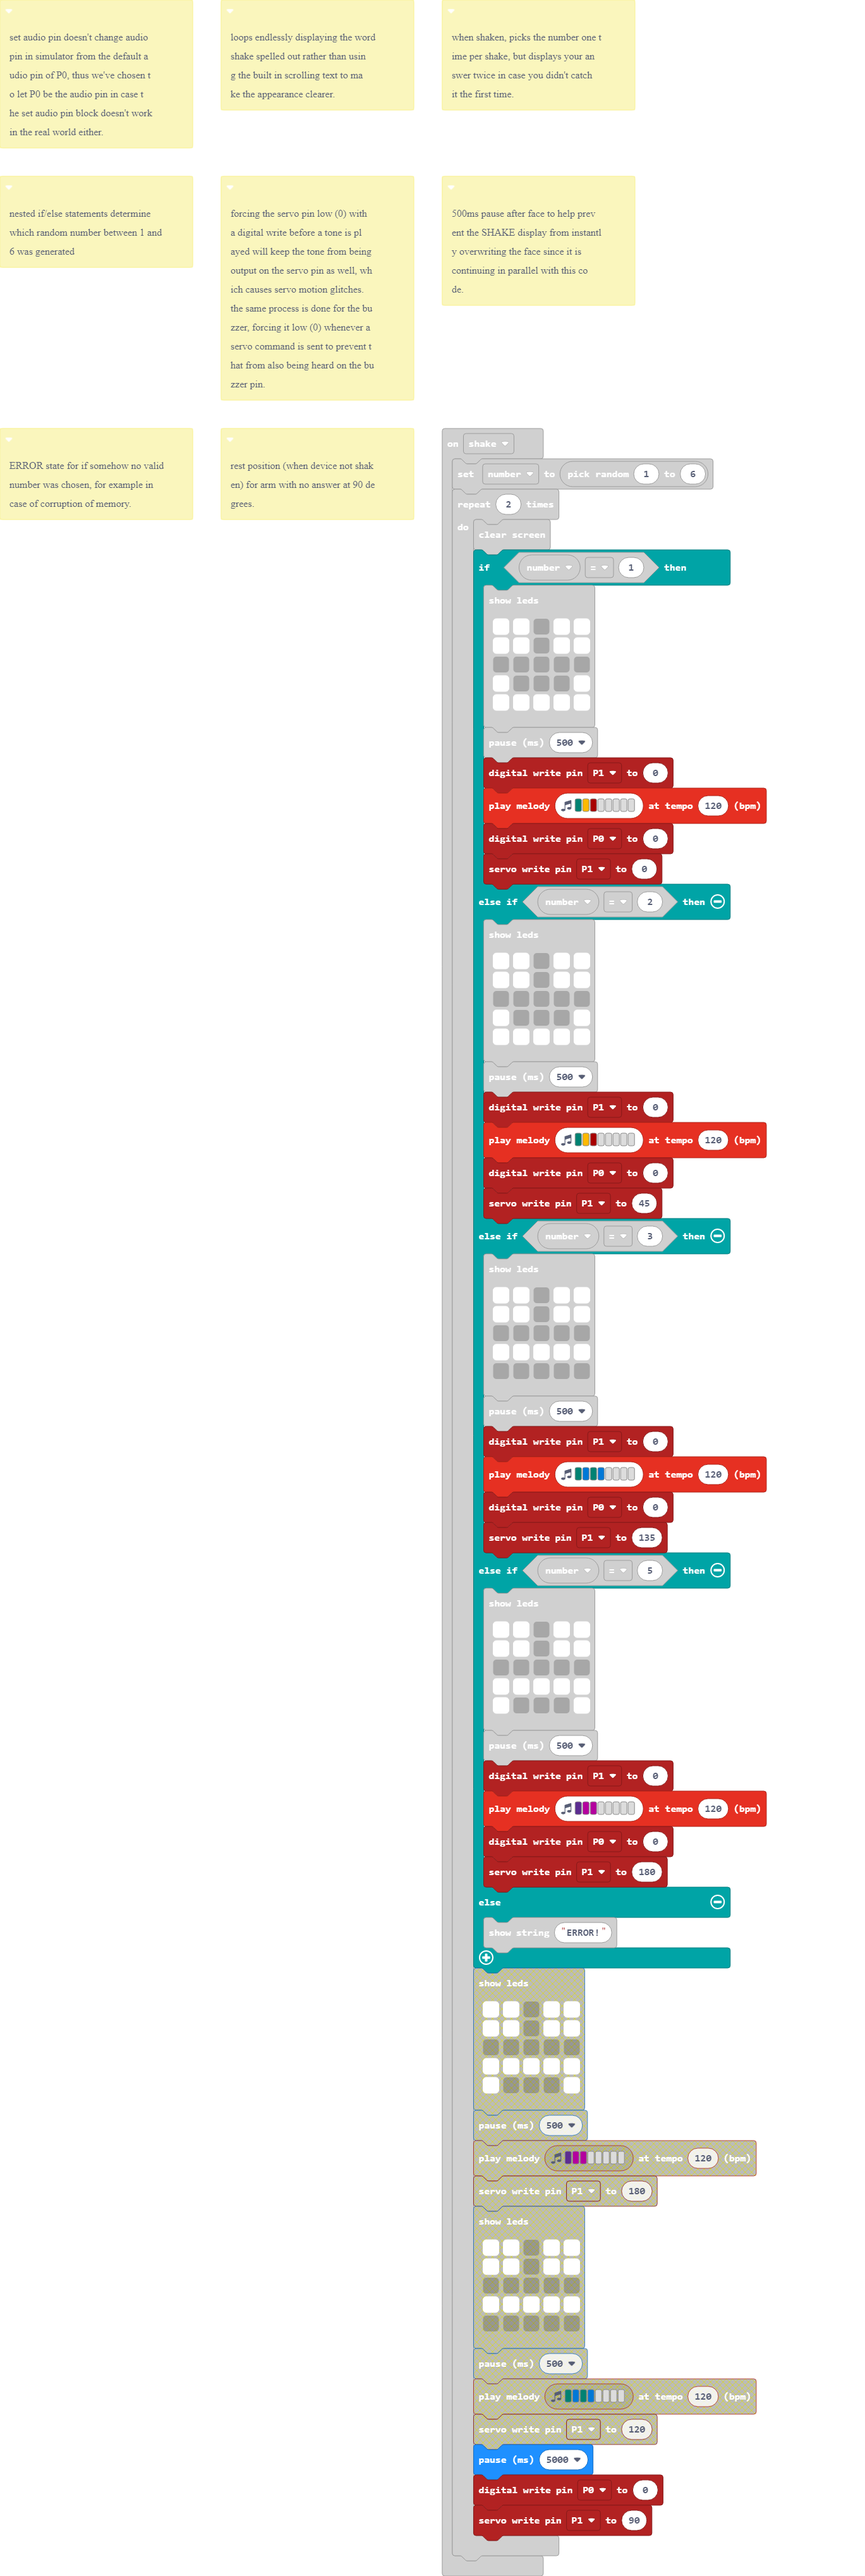
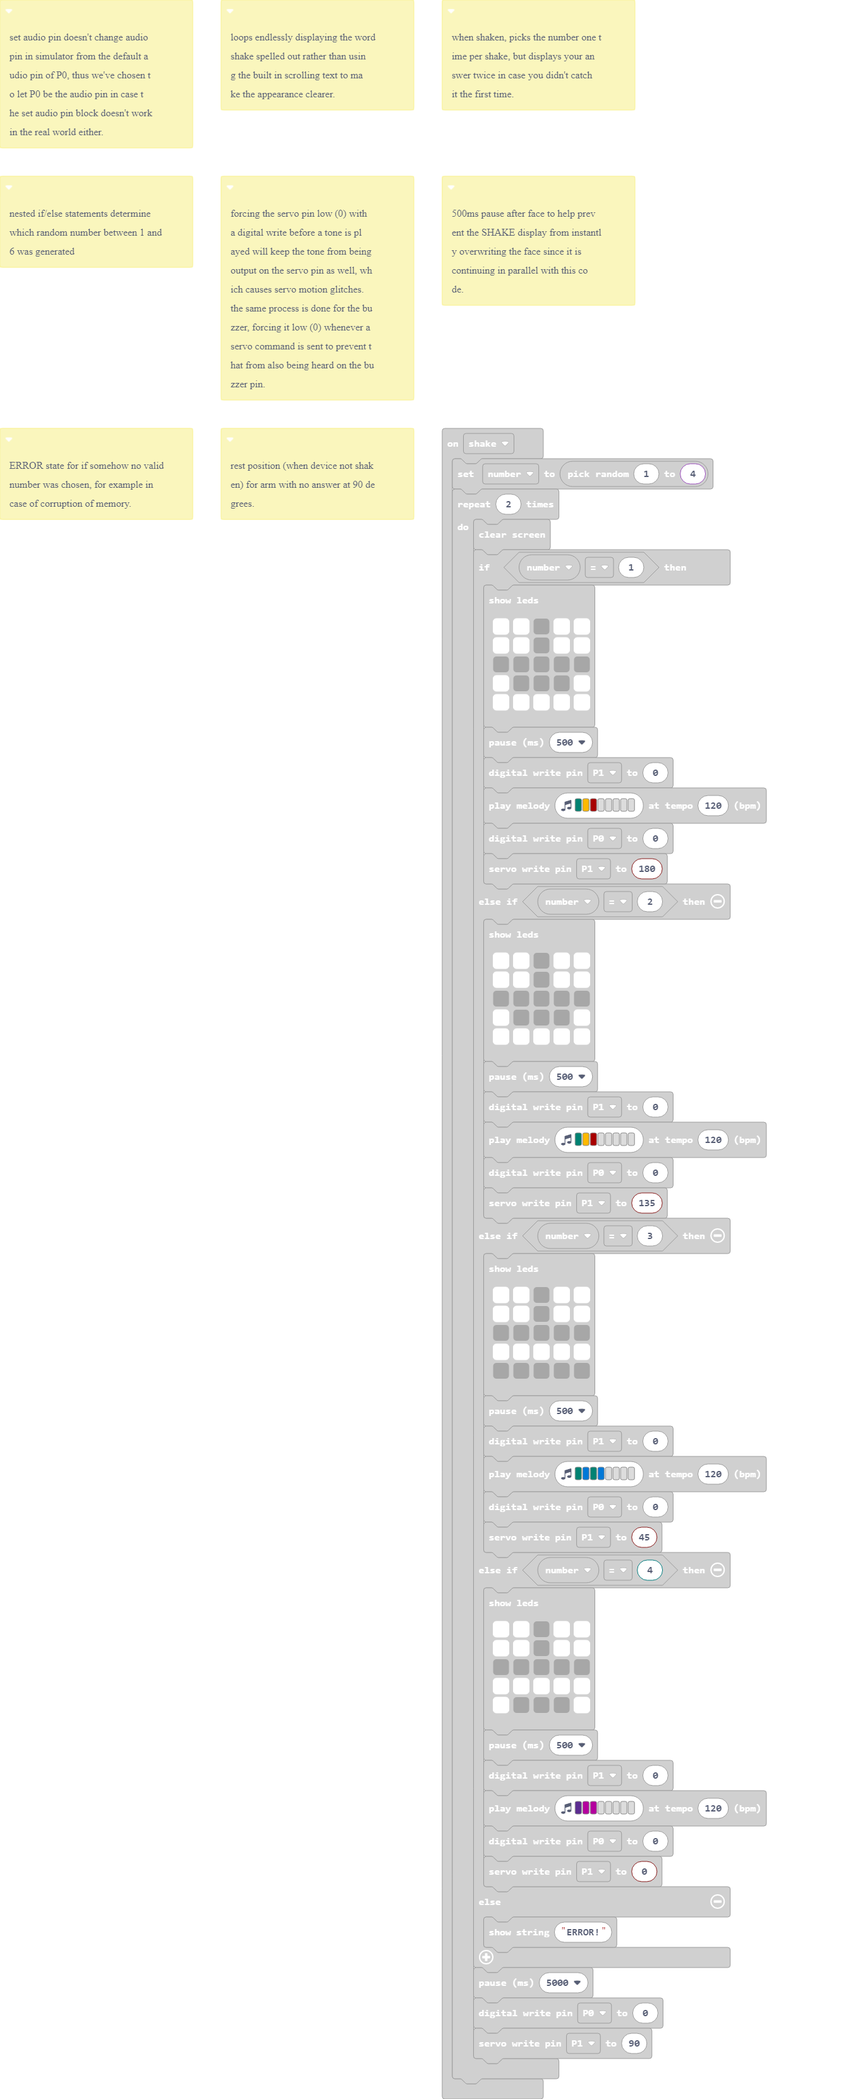
Reverse servo directions to match 3D print.

Changed region(s): [[0.0, 0.0, 0.8897, 0.9922]]

diff --git a/main.ts b/main.ts
@@ -19,7 +19,7 @@
  * ERROR state for if somehow no valid number was chosen, for example in case of corruption of memory.
  */
 input.onGesture(Gesture.Shake, function () {
-    number = randint(1, 6)
+    number = randint(1, 4)
     for (let index = 0; index < 2; index++) {
         basic.clearScreen()
         if (number == 1) {
@@ -34,7 +34,7 @@ input.onGesture(Gesture.Shake, function () {
             pins.digitalWritePin(DigitalPin.P1, 0)
             music.playMelody("F A C5 - - - - - ", 120)
             pins.digitalWritePin(DigitalPin.P0, 0)
-            pins.servoWritePin(AnalogPin.P1, 0)
+            pins.servoWritePin(AnalogPin.P1, 180)
         } else if (number == 2) {
             basic.showLeds(`
                 # # . # #
@@ -47,7 +47,7 @@ input.onGesture(Gesture.Shake, function () {
             pins.digitalWritePin(DigitalPin.P1, 0)
             music.playMelody("F A C5 - - - - - ", 120)
             pins.digitalWritePin(DigitalPin.P0, 0)
-            pins.servoWritePin(AnalogPin.P1, 45)
+            pins.servoWritePin(AnalogPin.P1, 135)
         } else if (number == 3) {
             basic.showLeds(`
                 # # . # #
@@ -60,8 +60,8 @@ input.onGesture(Gesture.Shake, function () {
             pins.digitalWritePin(DigitalPin.P1, 0)
             music.playMelody("F E F E - - - - ", 120)
             pins.digitalWritePin(DigitalPin.P0, 0)
-            pins.servoWritePin(AnalogPin.P1, 135)
-        } else if (number == 5) {
+            pins.servoWritePin(AnalogPin.P1, 45)
+        } else if (number == 4) {
             basic.showLeds(`
                 # # . # #
                 # # . # #
@@ -73,7 +73,7 @@ input.onGesture(Gesture.Shake, function () {
             pins.digitalWritePin(DigitalPin.P1, 0)
             music.playMelody("D C C - - - - - ", 120)
             pins.digitalWritePin(DigitalPin.P0, 0)
-            pins.servoWritePin(AnalogPin.P1, 180)
+            pins.servoWritePin(AnalogPin.P1, 0)
         } else {
             basic.showString("ERROR!")
         }
